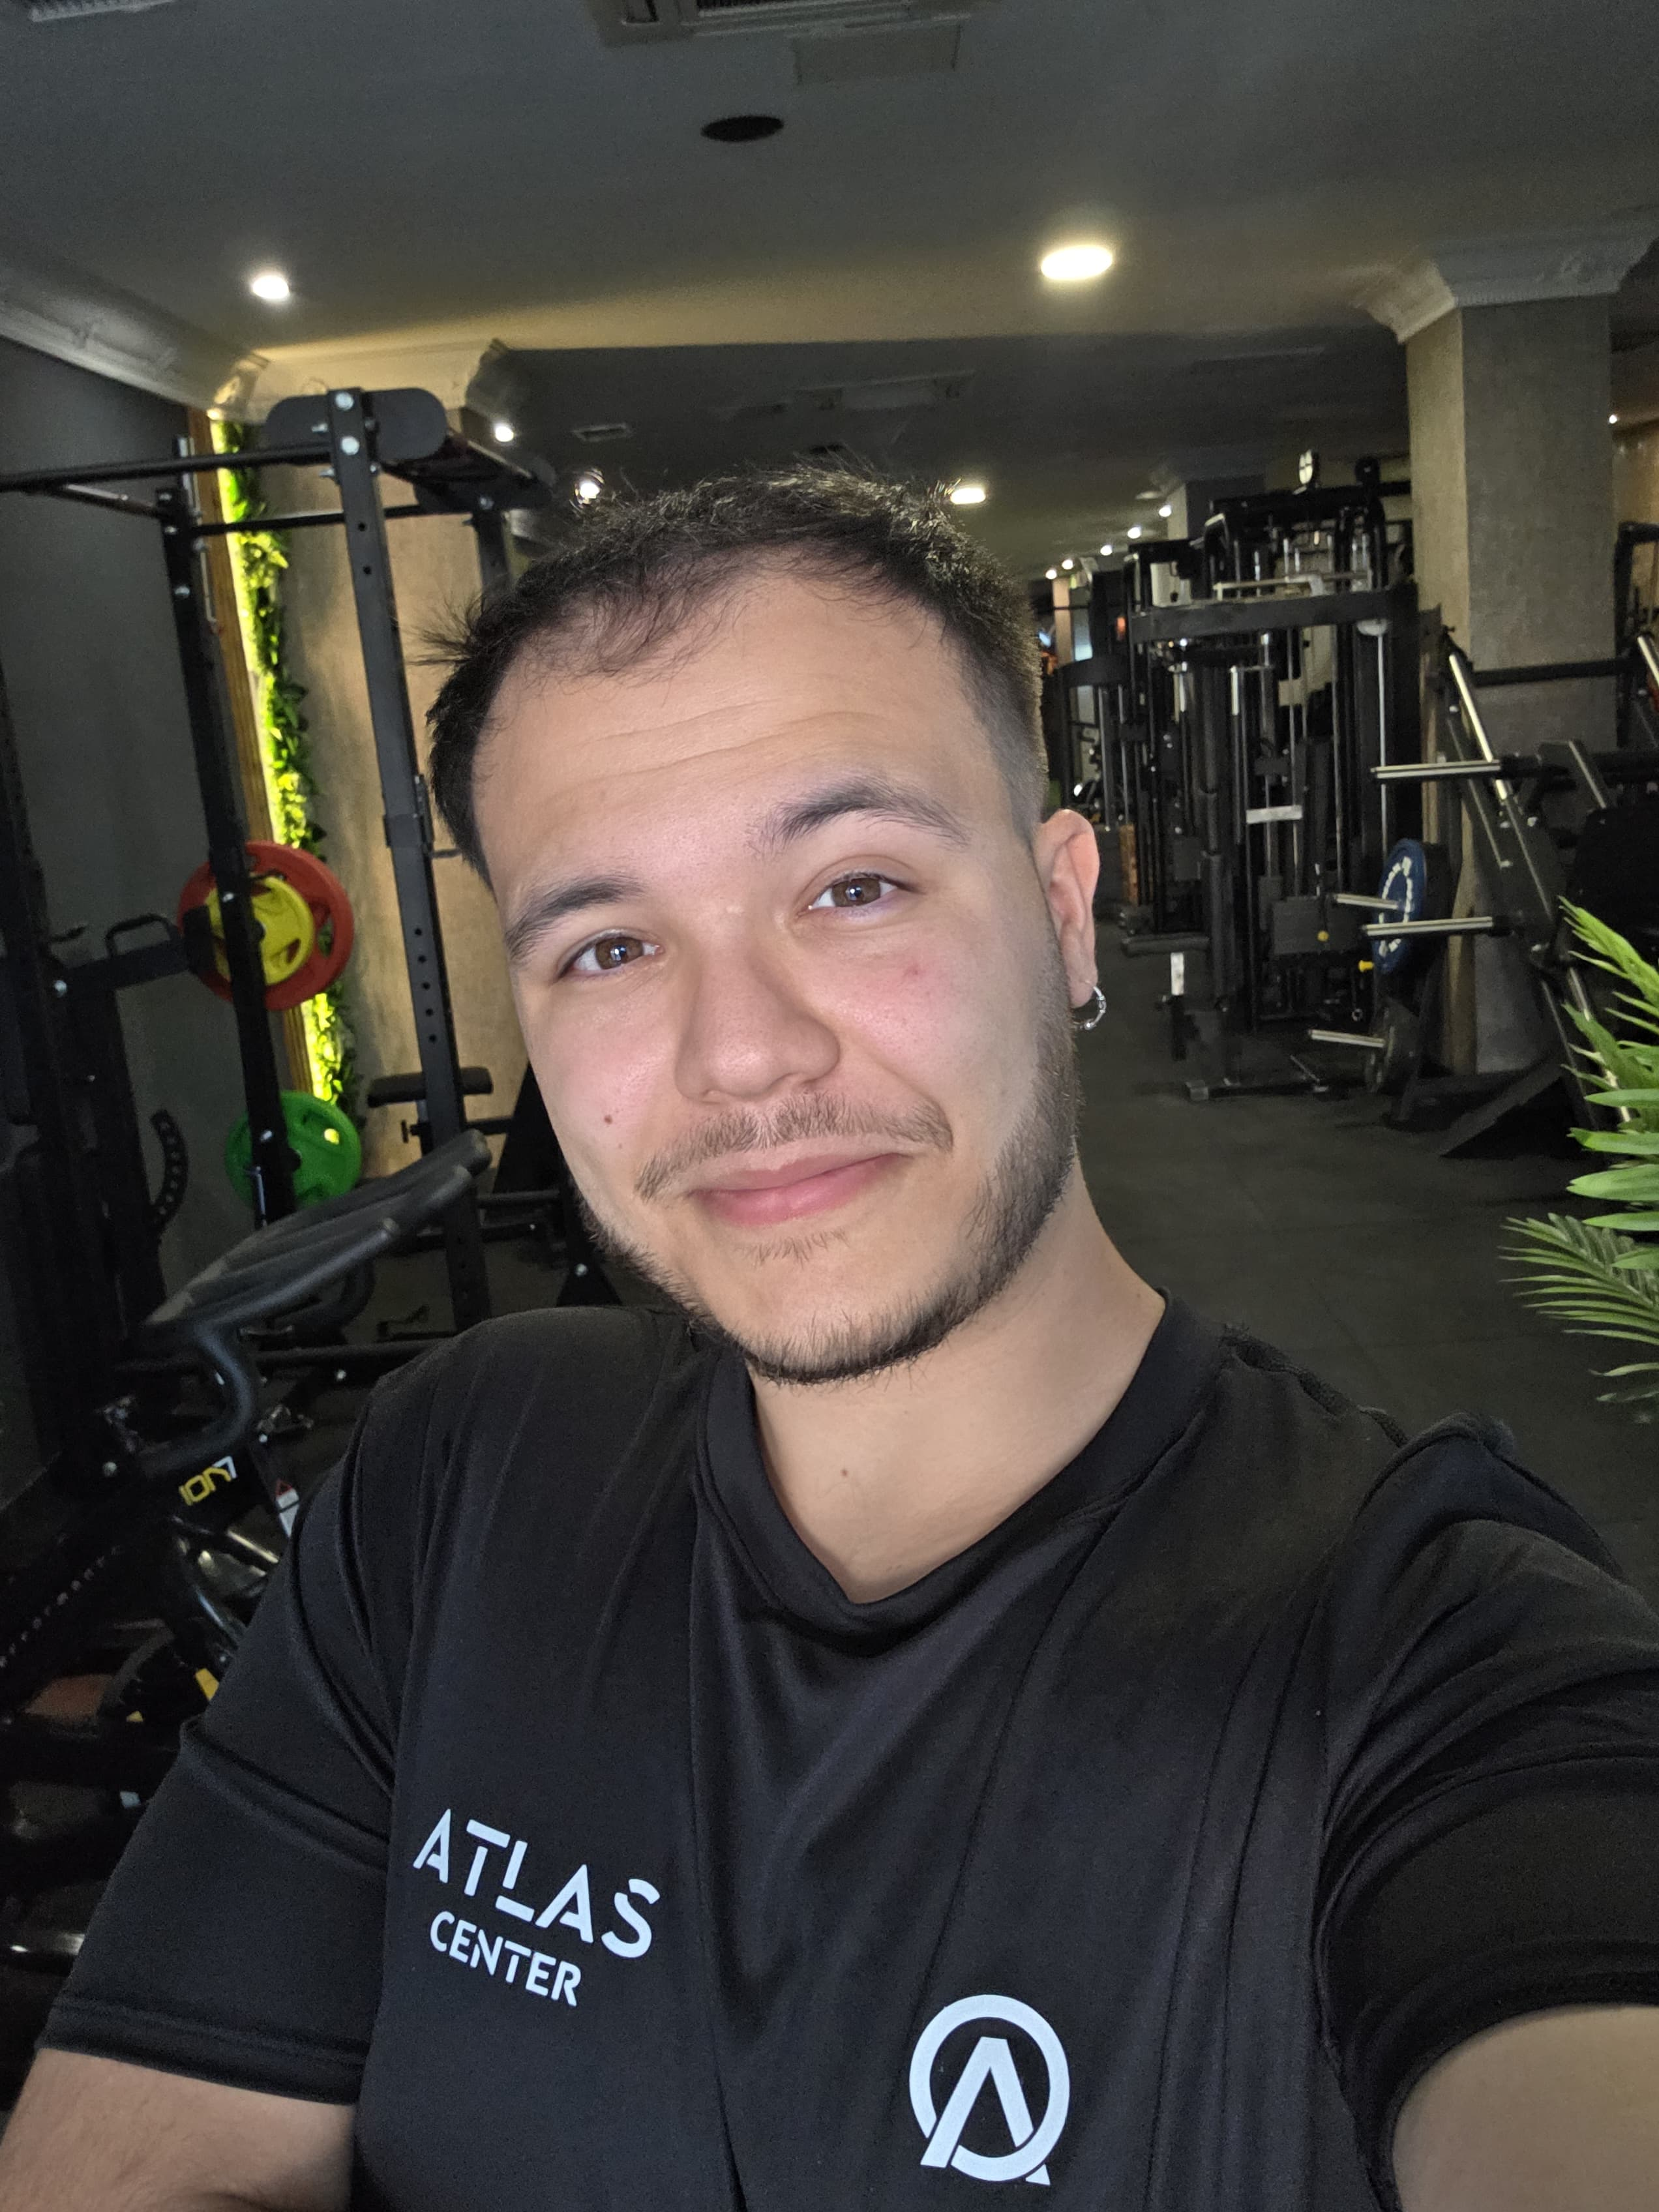
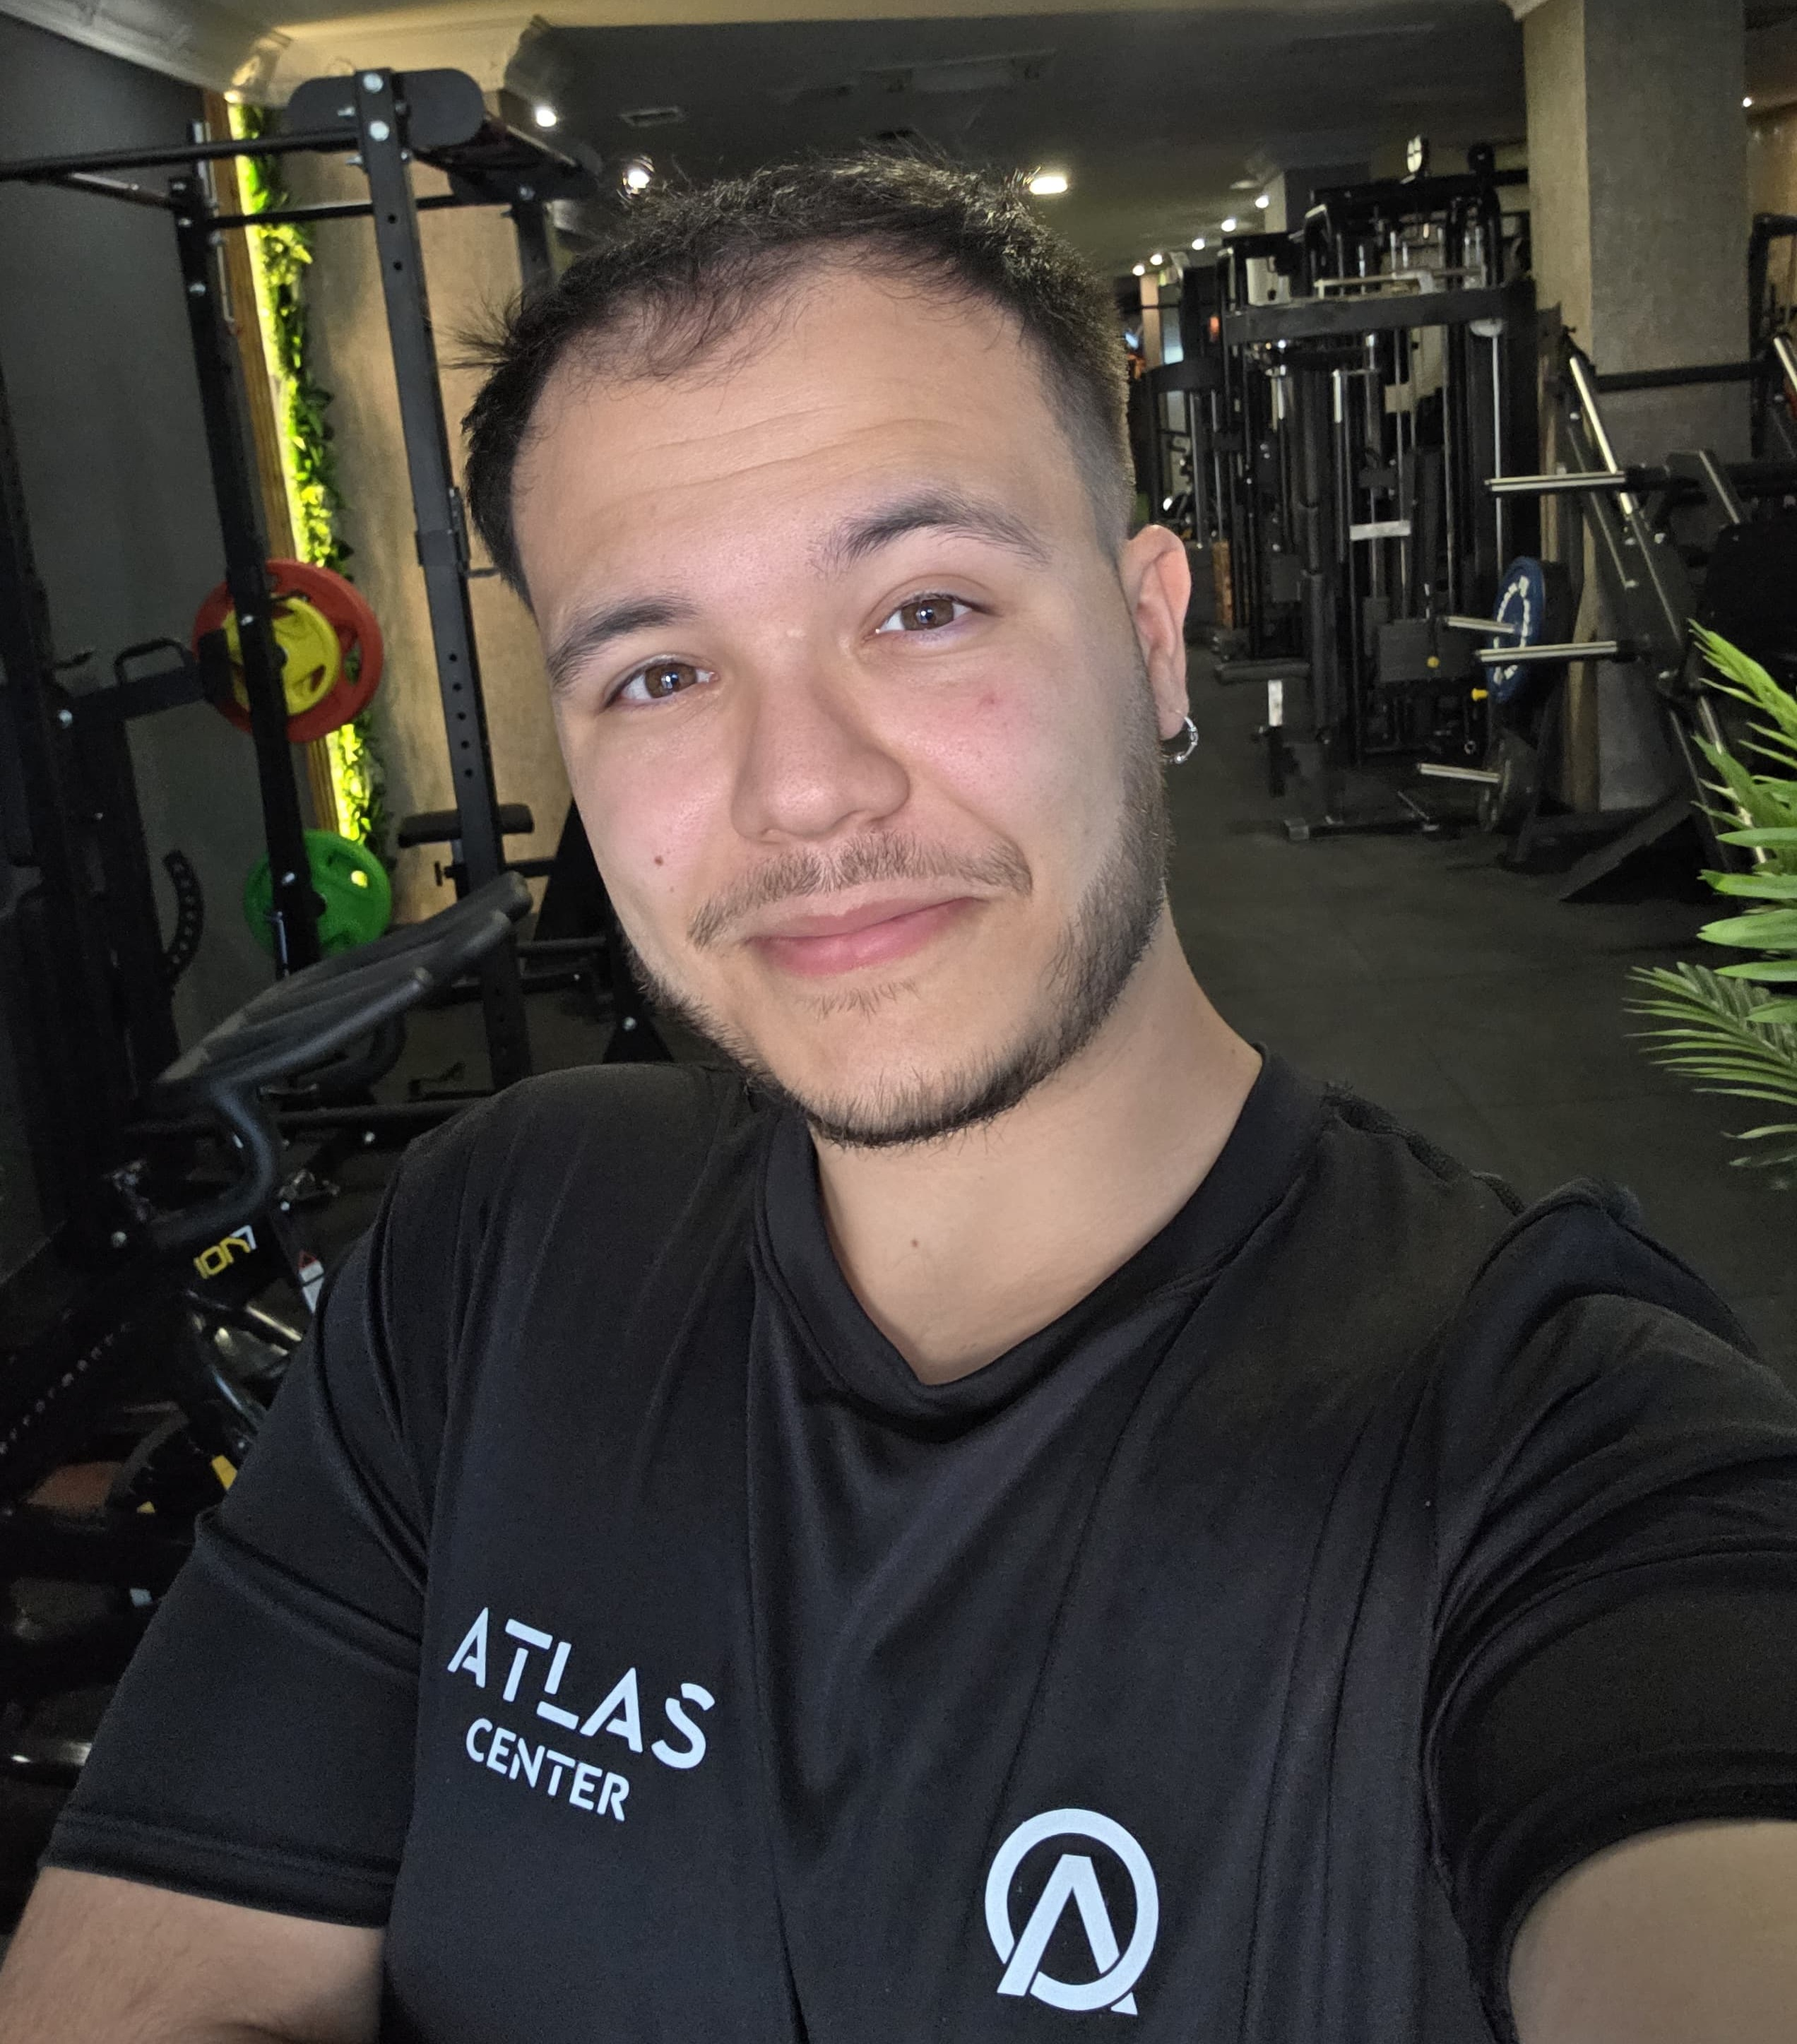
Actualiza foto carlos

diff --git a/src/components/page-blocks/TrainersSection.jsx b/src/components/page-blocks/TrainersSection.jsx
@@ -101,6 +101,11 @@ const renderTrainerDescription = (description) => {
   })
 }
 
+const trainerImagePositions = {
+  Sergio: { objectPosition: '25% center' },
+  Carlos: { objectPosition: 'center 18%' },
+}
+
 function TrainersSection({ trainers, headingLevel = 'h2' }) {
   const [flippedCards, setFlippedCards] = useState(() => new Set())
 
@@ -150,7 +155,7 @@ function TrainersSection({ trainers, headingLevel = 'h2' }) {
                           src={trainer.image}
                           alt={`Miembro del equipo ${trainer.name}`}
                           loading="lazy"
-                          style={trainer.name === 'Sergio' ? { objectPosition: '25% center' } : undefined}
+                          style={trainerImagePositions[trainer.name]}
                         />
                         <div className="trainer-card__overlay">
                           <p>Pulsa para ver su descripcion</p>